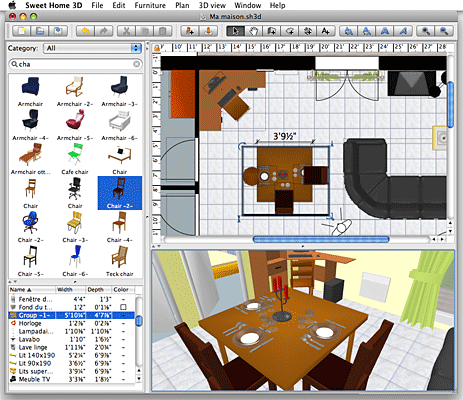
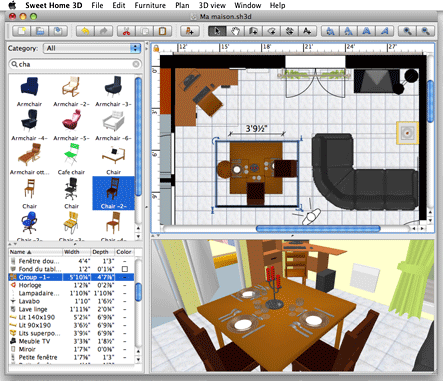
Updated UI
git-svn-id: https://svn.code.sf.net/p/sweethome3d/code/trunk@2426 03e323e1-6c6c-46a5-9f71-c4ce5d8c6204

diff --git a/SweetHome3D/src/com/eteks/sweethome3d/viewcontroller/resources/help/fr/ui.html b/SweetHome3D/src/com/eteks/sweethome3d/viewcontroller/resources/help/fr/ui.html
@@ -30,7 +30,7 @@
 permet d'&eacute;diter l'am&eacute;nagement int&eacute;rieur d'un logement et est divis&eacute;e en quatre panneaux redimensionnables,
 d&eacute;crits comme suit.</p>
                 
-        <p align="center"><img src="../images/sweethome3dZones.png" alt="Panneaux de l'interface utilisateur" width="518" height="493"></p></td>
+        <p align="center"><img src="../images/sweethome3dZones.png" alt="Panneaux de l'interface utilisateur" width="516" height="487"></p></td>
             </tr>
           </table>
           <div id="taskbox">
@@ -105,7 +105,7 @@ d&eacute;crits comme suit.</p>
           modifi&eacute;es, les &eacute;l&eacute;ments du plan peuvent &ecirc;tre 
           vus d'une autre fa&ccedil;on, les fl&egrave;ches de navigation 3D peuvent 
           &ecirc;tre cach&eacute;s...</p>
-        <p align="center"><img src="../images/sweethome3dVirtualVisit.png" alt="Autre vue de l'interface utilisateur" width="463" height="400"></p></td>
+        <p align="center"><img src="../images/sweethome3dVirtualVisit.png" alt="Autre vue de l'interface utilisateur" width="443" height="381"></p></td>
 	</tr>
 </table>
     </div>

diff --git a/SweetHome3D/src/com/eteks/sweethome3d/viewcontroller/resources/help/en/ui.html b/SweetHome3D/src/com/eteks/sweethome3d/viewcontroller/resources/help/en/ui.html
@@ -30,7 +30,7 @@
 window edits the interior design of a home and is divided in four resizable
                     panes, described as following.</p>
                 
-        <p align="center"><img src="../images/sweethome3dZones.png" alt="User Interface parts" width="518" height="493"></p></td>
+        <p align="center"><img src="../images/sweethome3dZones.png" alt="User Interface parts" width="516" height="487"></p></td>
             </tr>
           </table>
           <div id="taskbox">
@@ -115,7 +115,7 @@ window edits the interior design of a home and is divided in four resizable
           list, the columns in the furniture list may be modified, items in the 
           plan may be viewed in a different way, the navigation arrows in the 
           3D view may be hidden...</p>
-        <p align="center"><img src="../images/sweethome3dVirtualVisit.png" alt="Other view of the User Interface" width="463" height="400"></p></td>
+        <p align="center"><img src="../images/sweethome3dVirtualVisit.png" alt="Other view of the User Interface" width="443" height="381"></p></td>
 	</tr>
 </table>
     </div>

diff --git a/SweetHome3D/src/com/eteks/sweethome3d/viewcontroller/resources/help/pl/ui.html b/SweetHome3D/src/com/eteks/sweethome3d/viewcontroller/resources/help/pl/ui.html
@@ -1,4 +1,4 @@
-<!DOCTYPE HTML PUBLIC "-//W3C//DTD HTML 4.01 Transitional//EN">
+width="516" height="487"<!DOCTYPE HTML PUBLIC "-//W3C//DTD HTML 4.01 Transitional//EN">
 <html>
 <head>
 <meta http-equiv="content-type" content="text/html;charset=utf-8">
@@ -27,7 +27,7 @@
       <td> <p>Okno programu s&#322;u&#380;y zmianie wygl&#261;du wn&#281;trza 
           domu i jest podzielone na cztery panele (kt&oacute;rych rozmiar mo&#380;esz 
           dopasowa&#263;). Ich funkcje zosta&#322;y opisane poni&#380;ej.</p>
-        <p align="center"><img src="../images/sweethome3dZones.png" alt="User Interface parts" height="493" width="518"></p></td>
+        <p align="center"><img src="../images/sweethome3dZones.png" alt="User Interface parts" width="516" height="487"></p></td>
     </tr>
   </table>
   <div id="taskbox"> 

diff --git a/SweetHome3D/src/com/eteks/sweethome3d/viewcontroller/resources/help/it/ui.html b/SweetHome3D/src/com/eteks/sweethome3d/viewcontroller/resources/help/it/ui.html
@@ -30,7 +30,7 @@
 				<P>La finestra di Sweet Home 3D mostra il design interno di una singola casa, ed è divisa in quattro pannelli (i riquadri rettangolare
 			  che vedi nella finestra) liberamente ridimensionabili, descritti come segue.</P>
 				
-        <P ALIGN=CENTER><IMG SRC="../images/sweethome3dZones.png" ALT="User Interface parts" ALIGN=BOTTOM WIDTH=518 HEIGHT=493 BORDER=0></P>
+        <P ALIGN=CENTER><IMG SRC="../images/sweethome3dZones.png" ALT="User Interface parts" ALIGN=BOTTOM width="516" height="487" BORDER=0></P>
 		  </TD>
 		</TR>
 	</TABLE>

diff --git a/SweetHome3D/src/com/eteks/sweethome3d/viewcontroller/resources/help/cs/ui.html b/SweetHome3D/src/com/eteks/sweethome3d/viewcontroller/resources/help/cs/ui.html
@@ -27,7 +27,7 @@
             <tr>
               <td><p>Program Sweet Home 3D disponuje čtyřmi pracovními okny, jejichž velikost si můžete nastavit dle vlastní potřeby, a které jsou popsány níže.</p>
                 
-        <p align="center"><img src="../images/sweethome3dZones.png" alt="User Interface parts" width="518" height="493"></p></td>
+        <p align="center"><img src="../images/sweethome3dZones.png" alt="User Interface parts" width="516" height="487"></p></td>
             </tr>
           </table>
           <div id="taskbox">
